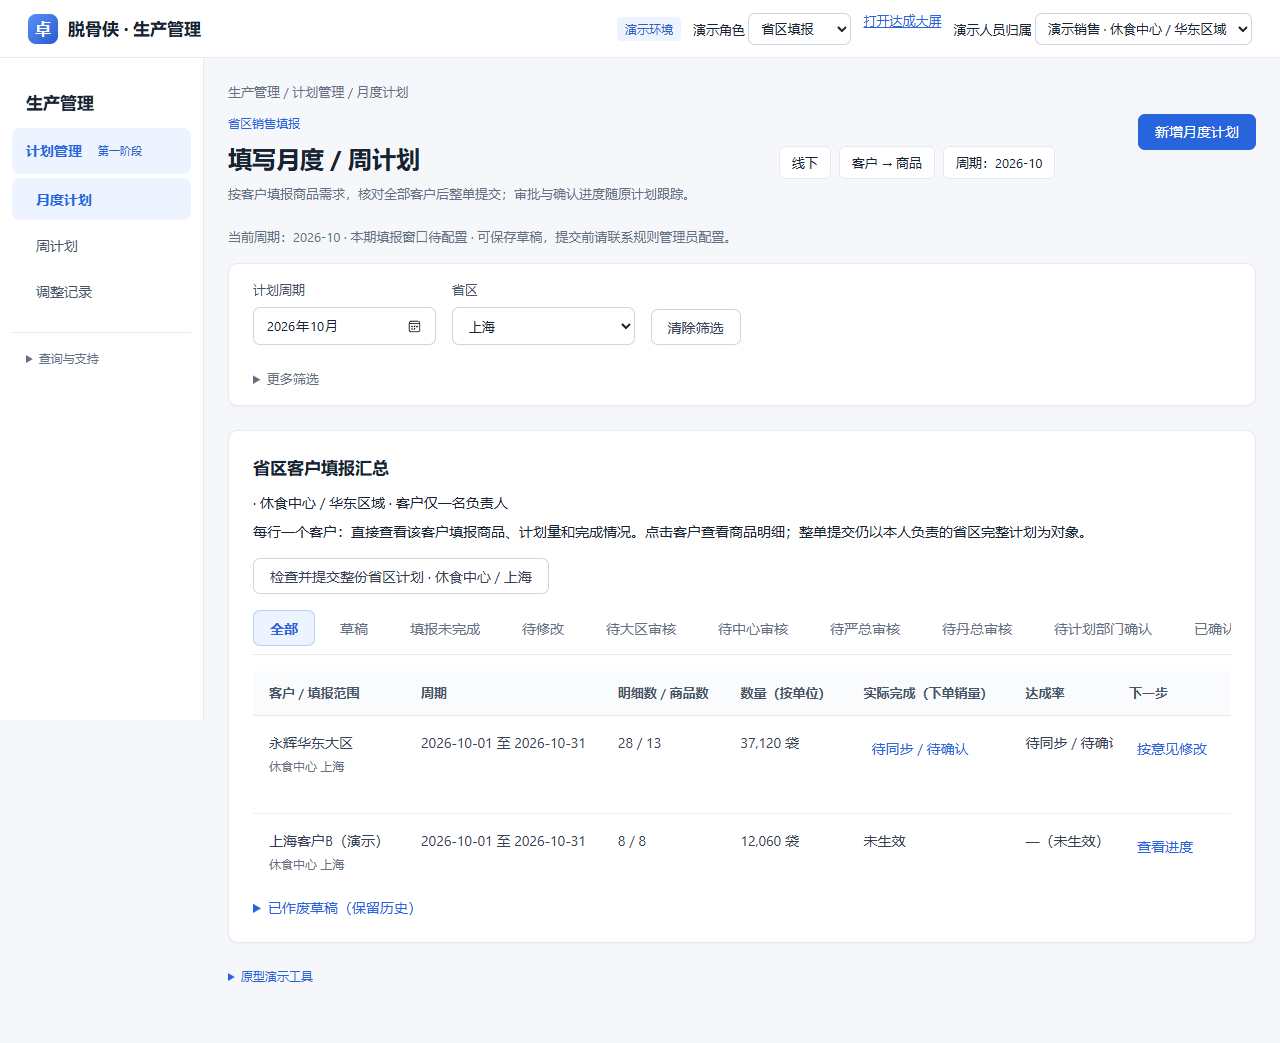
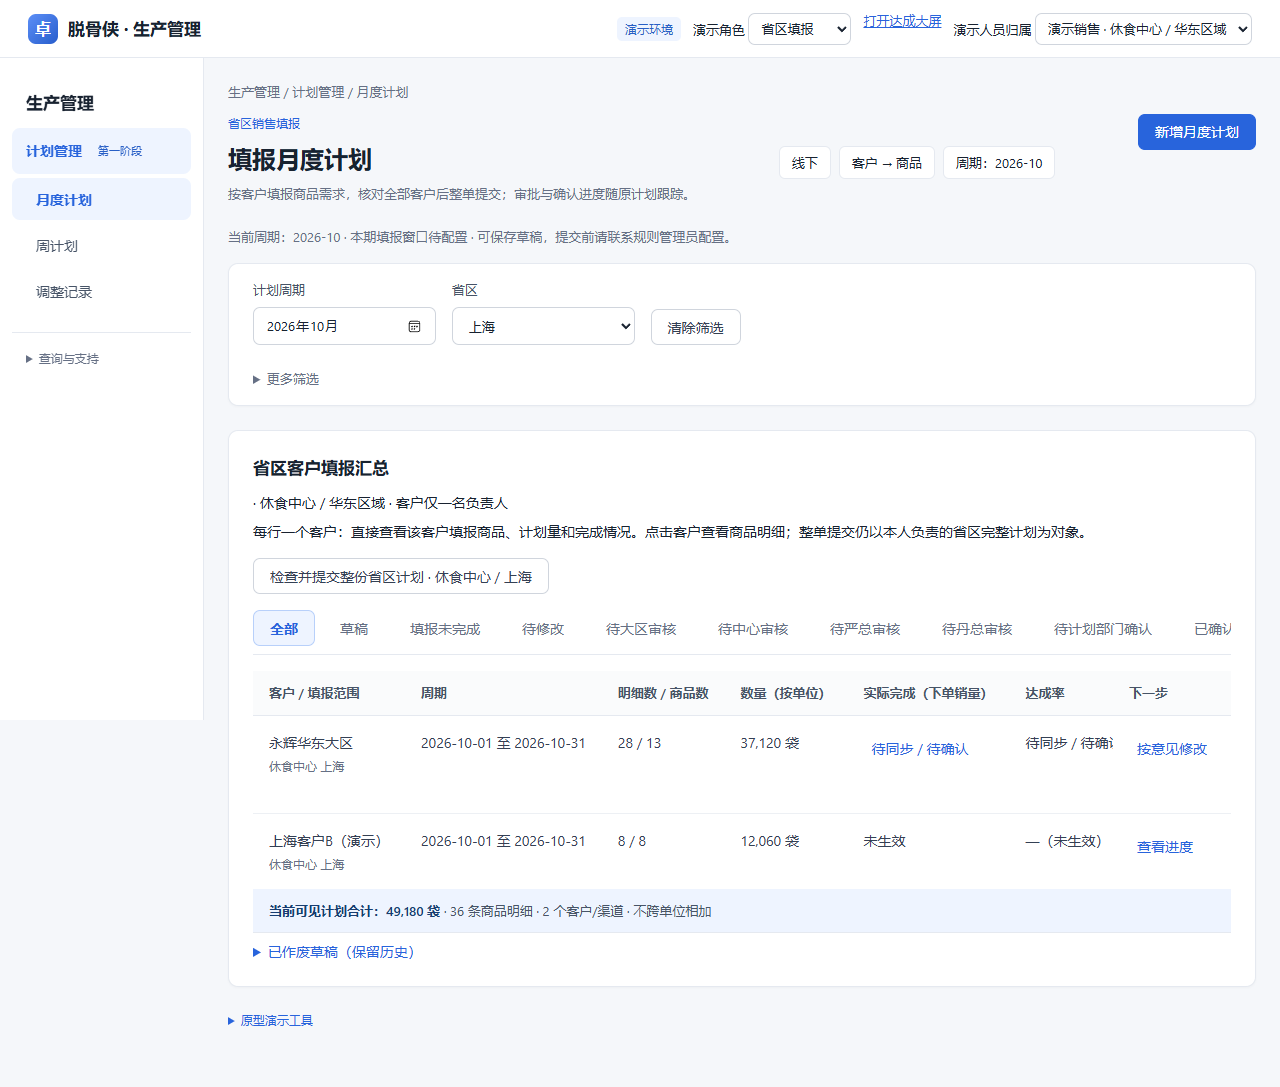
Auto sync 2026-10-13 21:34:06

diff --git a/09-设计与原型/销售计划管理/计划流程工作台.js b/09-设计与原型/销售计划管理/计划流程工作台.js
@@ -18,6 +18,6 @@
   const finish=()=>{document.getElementById('dialog').close();a.render();};document.getElementById('acceptForm').onsubmit=e=>{e.preventDefault();if(!planner||p.productionLocked||p.archived||p.kind!==d.businessSettings.productionBasis)return;const f=e.target,qty=Number(f.qty.value);if(!Number.isInteger(qty)||qty<0||qty>p.qty||!f.date.value||!f.reason.value.trim())return a.message('请填写有效承诺数量、交期和评估依据。');const backup=structuredClone(d);if(r)d.acceptanceHistory.push({plan:p.id,...structuredClone(r)});d.acceptances[p.id]={version:p.version,qty,date:f.date.value,reason:f.reason.value.trim(),status:'待销售确认',at:new Date().toISOString()};a.log(p,'计划部门承接承诺待销售确认',{opinion:f.reason.value,qty});PlanBusiness.notify(d,p.business==='online'?'线上运营':'省区填报','生产承接待确认',p.id);if(!a.persist()){Object.assign(d,backup);return;}finish();};for(const [id,status]of [['offerConfirm','销售已确认承诺'],['offerReturn','退回计划部门重评'],['offerLock','已冻结执行']])document.getElementById(id).onclick=()=>{if(!valid||(status==='已冻结执行'?(!planner||r.status!=='销售已确认承诺'):(!seller||r.status!=='待销售确认')))return;const opinion=document.getElementById('offerOpinion').value.trim();if(!opinion)return a.message('请填写确认、退回或冻结意见。');const backup=structuredClone(d);r.status=status;if(status==='已冻结执行')p.productionLocked=true;a.log(p,'承接承诺'+status,{opinion});PlanBusiness.notify(d,status==='退回计划部门重评'?'计划部门':p.business==='online'?'线上运营':'省区填报','承接承诺'+status,p.id);if(!a.persist()){Object.assign(d,backup);return;}finish();};document.getElementById('deliveryForm').onsubmit=e=>{e.preventDefault();if(!planner||!p.productionLocked||!valid||r.status!=='已冻结执行')return;const f=e.target,qty=Number(f.qty.value),sum=d.fulfillment.filter(x=>x.plan===p.id).reduce((s,x)=>s+x.qty,0);if(!Number.isInteger(qty)||qty<=0||sum+qty>r.qty||!f.date.value||f.date.value>new Intl.DateTimeFormat('sv-SE',{timeZone:'Asia/Shanghai'}).format(new Date())||!f.note.value.trim())return a.message('累计交付不得超过承诺，交付日期不能晚于今天，日期及凭据不能为空。');const backup=structuredClone(d);d.fulfillment.push({plan:p.id,version:p.version,qty,date:f.date.value,note:f.note.value.trim(),by:a.role(),at:new Date().toISOString()});a.log(p,'登记实际交付',{qty,opinion:f.note.value});if(!a.persist()){Object.assign(d,backup);return;}finish();};}
  function settings(a){const card=document.createElement('section');card.className='card';card.innerHTML='<h3>异常检查规则（演示）</h3><label class="field">较上期有效订单数量偏差百分比<input id="anomalyPercent" type="number" min="1" max="500" value="'+a.data().workflowSettings.anomalyPercent+'"></label><button id="saveAnomalyPercent">保存阈值</button>';document.getElementById('content').append(card);card.querySelector('button').onclick=()=>{if(a.role()!=='规则管理员')return;const n=Number(card.querySelector('input').value);if(!Number.isFinite(n)||n<1||n>500)return a.message('请填写1至500的阈值。');a.data().workflowSettings.anomalyPercent=n;if(a.persist())a.message('异常检查阈值已保存。');};}
  function decorate(a){if(document.body.dataset.page==='screen')return;initialize(a.data());if(a.view()==='businessRules')settings(a);const nav=document.querySelector('nav'),more=nav.querySelector('.nav-more')||document.createElement('details');if(!more.parentElement){more.className='nav-more';more.innerHTML='<summary>查询与配置</summary>';nav.append(more);}more.querySelector('summary').textContent='查询与配置';nav.querySelectorAll(':scope>button').forEach(b=>{if(b.dataset.planKind)return;if(b.dataset.view==='review'||b.dataset.view==='adjustments'&&a.role()==='计划部门'){b.textContent='我的审核';return;}if(b.getAttribute('aria-current')==='true'&&a.view()==='monthRecap'){b.textContent='预测复盘';return;}more.append(b);});let recap=[...more.querySelectorAll('button')].find(b=>b.textContent==='月周预测复盘');if(recap){recap.textContent='预测复盘';nav.insertBefore(recap,more);}const accept=document.createElement('button');accept.textContent='需求承接';accept.setAttribute('aria-current',String(a.view()==='acceptance'));accept.onclick=()=>a.setView('acceptance');nav.insertBefore(accept,more);if(['省区填报','线上运营'].includes(a.role())){nav.querySelectorAll('[data-plan-kind]').forEach(b=>b.textContent=b.dataset.planKind==='month'?'我的填报 · 月度':'我的填报 · 周');if(a.view()==='plans')planSheets(a);}if(a.view()==='review')anomalies(a);if(a.view()==='acceptance')acceptance(a);if(a.view()==='monthRecap'){const host=document.getElementById('monthRecap'),section=document.createElement('section');section.className='card';section.innerHTML='<h3>复盘原因与下期改进</h3><p>按月份及业务分别记录，不覆盖预测数据。</p><label class="field">偏差原因 / 改进措施<textarea id="recapReason"></textarea></label><button id="saveRecapReason">保存复盘说明</button>';host.after(section);const key=()=>a.filters().business+':'+document.getElementById('recapMonth').value;const load=()=>document.getElementById('recapReason').value=a.data().recapReasons[key()]?.text||'';load();document.getElementById('recapMonth').addEventListener('change',load);document.getElementById('saveRecapReason').onclick=()=>{const text=document.getElementById('recapReason').value.trim();if(!text)return a.message('请填写复盘原因及改进措施。');a.data().recapReasons[key()]={text,by:a.role(),at:new Date().toISOString()};if(a.persist())a.message('复盘说明已保存，下期可查询参考。');};}}
- function enhanceBatch(a,f,x){const bar=document.createElement('section');bar.className='notice';bar.innerHTML='<strong>填报顺序：① 周期与范围 → ② 查询上期销售 → ③ 商品与数量 → ④ 检查提交</strong><p>月、周是独立销售预测；草稿可直接修改，提交后进入审核。</p>';f.prepend(bar);const steps=document.createElement('div');steps.className='summary-tabs';steps.innerHTML=['周期与范围','查询上期销售','商品与数量','检查提交'].map((s,i)=>'<button type="button" data-fill-step="'+i+'">'+(i+1)+' · '+s+'</button>').join('');const priorKey=Object.keys(a.data().recapReasons||{}).filter(k=>k.startsWith(x.business+':')&&k.split(':')[1]<x.start.slice(0,7)).sort().at(-1);if(priorKey){const p=document.createElement('p');p.textContent='上期复盘参考：'+a.data().recapReasons[priorKey].text;bar.append(p);}bar.append(steps);steps.querySelectorAll('button').forEach(b=>b.onclick=()=>{const target=[f.start,document.getElementById('openSalesHistory'),document.getElementById('lines'),f.querySelector('button[type=submit]')][Number(b.dataset.fillStep)];target?.scrollIntoView({block:'center'});target?.focus();});const submit=f.onsubmit;f.onsubmit=e=>{e.preventDefault();if(!f.start.value||!f.end.value||f.start.value>f.end.value)return a.message('请先填写有效周期。');const rows=x.lines;if(rows.some(l=>!l.product||!Number.isInteger(Number(l.qty))||Number(l.qty)<=0))return a.message('请补齐商品及正整数数量。');const dialog=document.createElement('dialog');dialog.setAttribute('aria-label','提交前检查');dialog.innerHTML='<h2>提交前检查</h2><p>共 '+rows.length+' 条商品明细，提交后等待审核；异常提醒不自动修改数量。</p><div class="table-wrap"><table><thead><tr><th>客户 / 渠道</th><th>商品</th><th>数量</th></tr></thead><tbody>'+rows.map(l=>`<tr><td>${E(x.business==='online'?x.channel:l.customer||x.customer)}</td><td>${E(SalesPlan.productName(a.data(),l.product))}</td><td>${E(l.qty)} ${E(l.unit)}</td></tr>`).join('')+'</tbody></table></div><div class="row"><button id="confirmBatchSubmit">确认提交</button><button id="returnBatchEdit">返回修改</button></div>';document.body.append(dialog);dialog.addEventListener('close',()=>dialog.remove(),{once:true});dialog.querySelector('#returnBatchEdit').onclick=()=>dialog.close();dialog.querySelector('#confirmBatchSubmit').onclick=()=>{dialog.close();submit({preventDefault(){}});};dialog.showModal();};}
+ function enhanceBatch(a,f,x){const bar=document.createElement('section');bar.className='notice';bar.innerHTML='<strong>填报顺序：① 周期与范围 → ② 查询上期销售 → ③ 商品与数量 → ④ 检查提交</strong><p>月、周是独立销售预测；草稿可直接修改，提交后进入审核。</p>';f.prepend(bar);const steps=document.createElement('div');steps.className='summary-tabs';steps.innerHTML=['周期与范围','查询上期销售','商品与数量','检查提交'].map((s,i)=>'<button type="button" data-fill-step="'+i+'">'+(i+1)+' · '+s+'</button>').join('');const priorKey=Object.keys(a.data().recapReasons||{}).filter(k=>k.startsWith(x.business+':')&&k.split(':')[1]<x.start.slice(0,7)).sort().at(-1);if(priorKey){const p=document.createElement('p');p.textContent='上期复盘参考：'+a.data().recapReasons[priorKey].text;bar.append(p);}bar.append(steps);steps.querySelectorAll('button').forEach(b=>b.onclick=()=>{const target=[f.start,document.getElementById('openSalesHistory'),document.getElementById('lines'),f.querySelector('button[type=submit]')][Number(b.dataset.fillStep)];target?.scrollIntoView({block:'center'});target?.focus();});const submit=f.onsubmit;f.onsubmit=e=>{e.preventDefault();if(!f.start.value||!f.end.value||f.start.value>f.end.value)return a.message('请先填写有效周期。');const rows=x.lines;if(rows.some(l=>!l.product||!Number.isInteger(Number(l.qty))||Number(l.qty)<=0))return a.message('请补齐商品及正整数数量。');const dialog=document.createElement('dialog');dialog.setAttribute('aria-label','提交前检查');dialog.innerHTML='<h2>提交前检查</h2><p>共 '+rows.length+' 条商品明细，提交后等待审核；异常提醒不自动修改数量。</p><div class="table-wrap"><table><thead><tr><th>客户 / 渠道</th><th>商品</th><th>数量</th></tr></thead><tbody>'+rows.map(l=>`<tr><td>${E(x.business==='online'?x.channel:l.customer||x.customer)}</td><td>${E(SalesPlan.productName(a.data(),l.product))}</td><td>${E(l.qty)} ${E(l.unit)}</td></tr>`).join('')+'</tbody></table></div><div class="row"><button id="confirmBatchSubmit">确认提交</button><button id="returnBatchEdit">返回修改</button></div>';FillQuantity.table(dialog.querySelector('table'),rows,'tr');document.body.append(dialog);dialog.addEventListener('close',()=>dialog.remove(),{once:true});dialog.querySelector('#returnBatchEdit').onclick=()=>dialog.close();dialog.querySelector('#confirmBatchSubmit').onclick=()=>{dialog.close();submit({preventDefault(){}});};dialog.showModal();};}
  window.PlanWorkflow={openSheet,initialize,sheetKey,sheets,issue,decorate,enhanceBatch};
 })();

diff --git a/09-设计与原型/销售计划管理/角色任务聚焦.js b/09-设计与原型/销售计划管理/角色任务聚焦.js
@@ -20,7 +20,7 @@
  if(['商品管理员','规则管理员'].includes(role)){['monthRecap','salesHistory','analysis','demand','orders'].forEach(key=>nav.querySelector('[data-nav-key="'+key+'"]')?.remove());const primary=role==='商品管理员'?'products':'businessRules',b=nav.querySelector('[data-nav-key="'+primary+'"]');if(b)nav.insertBefore(b,support);}
  }
  const primaryView=fill?view==='plans':review?view==='review':role==='计划部门'?view==='acceptance':role==='商品管理员'?view==='products':['rules','businessRules'].includes(view);
- let hero=content.querySelector('.task-context');if(primaryView){if(!hero){hero=document.createElement('section');hero.className='task-context';content.prepend(hero);}const mainAction=content.querySelector('[data-action=new]');hero.innerHTML='<div><div class="task-eyebrow">'+E(config.name)+'</div><h1>'+E(config.home)+'</h1><p>'+E(config.goal)+'</p></div><div class="task-context-meta"><span>'+E(a.filters().business==='online'?'线上':'线下')+'</span><span>'+E(config.scope)+'</span><span>周期：'+E(a.filters().cycle||'未选择')+'</span></div>';if(mainAction){hero.append(mainAction);mainAction.textContent='新增'+(a.kind()==='month'?'月度':'周')+'计划';mainAction.setAttribute('aria-label','新增计划');}}
+ let hero=content.querySelector('.task-context');if(primaryView){if(!hero){hero=document.createElement('section');hero.className='task-context';content.prepend(hero);}const mainAction=content.querySelector('[data-action=new]');hero.innerHTML='<div><div class="task-eyebrow">'+E(config.name)+'</div><h1>'+E(fill?'填报'+(a.kind()==='month'?'月度':'周')+'计划':config.home)+'</h1><p>'+E(config.goal)+'</p></div><div class="task-context-meta"><span>'+E(a.filters().business==='online'?'线上':'线下')+'</span><span>'+E(config.scope)+'</span><span>周期：'+E(a.filters().cycle||'未选择')+'</span></div>';if(mainAction){hero.append(mainAction);mainAction.textContent='新增'+(a.kind()==='month'?'月度':'周')+'计划';mainAction.setAttribute('aria-label','新增计划');}}
  const singleBusiness=fill||review;if(singleBusiness&&['plans','review','acceptance','adjustments'].includes(view))content.querySelector('.business-switch')?.setAttribute('hidden','');
  if(primaryView){content.querySelectorAll(':scope>.task-window').forEach(el=>{const state=PlanBusiness.periodState(a.data(),a.kind(),a.kind()==='month'?a.filters().cycle+'-01':a.filters().cycle);el.textContent='当前周期：'+a.filters().cycle+' · '+state+(state==='本期填报窗口待配置'?' · 可保存草稿，提交前请联系规则管理员配置。':'');});}
  // Keep testing controls available, but remove them from the normal task surface.
